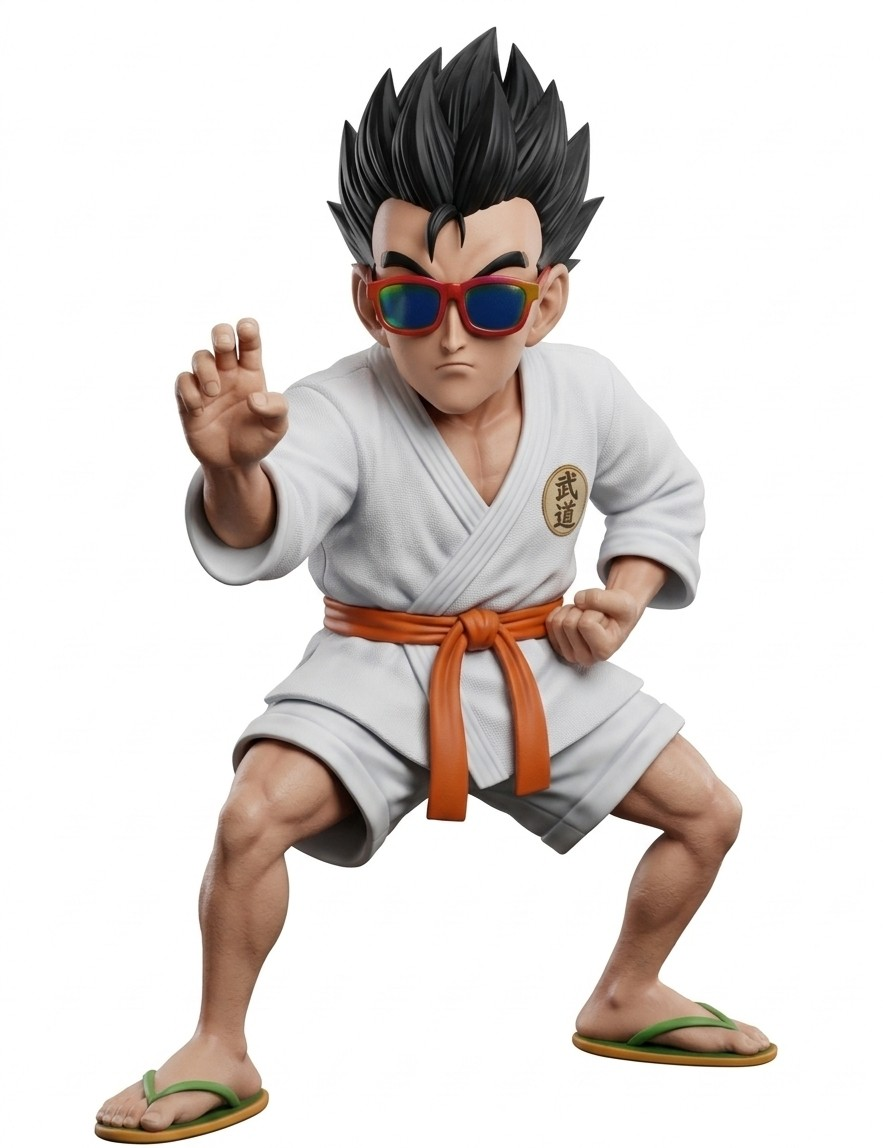
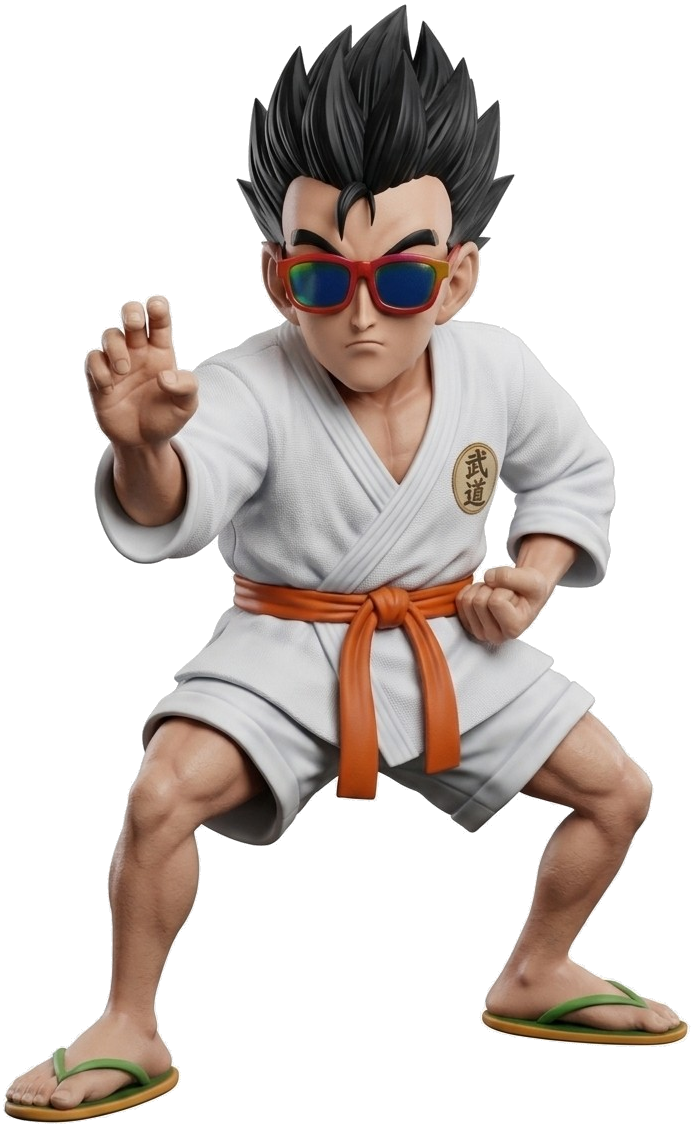
Jeder Kampf bringt das nächste Spiel, Muten Roshi Stufe 2 freigestellt
- Spielauswahl über eigenen Zähler (localStorage "zkrieger_spiel_nr"):
  jeder Kampf ab Welt-Level 2 startet das nächste Spiel der Reihe,
  auch nach einer Niederlage; Spielstand "zwarriors_neon_v10" unverändert
- c5_s2.png: weißer Hintergrund entfernt (transparentes PNG, weißer Gi bleibt)

diff --git a/app.js b/app.js
@@ -4005,7 +4005,13 @@ loadSmartImage(document.getElementById("intro-hero-img"), "intro_bg", () => {
 
     // Ab Welt-Level 2: jede Runde ein anderes Minispiel (Runde 1 bleibt unten unverändert)
     if (lvl >= 2) {
-      const game = MINI_GAMES[(lvl - 2) % MINI_GAMES.length];
+      // Jeder Kampf = nächstes Spiel der Reihe (auch nach einer Niederlage).
+      // Eigener Speicher-Schlüssel, damit "zwarriors_neon_v10" unverändert bleibt.
+      const GAME_KEY = "zkrieger_spiel_nr";
+      const stored = parseInt(localStorage.getItem(GAME_KEY), 10);
+      const gameNr = Number.isFinite(stored) ? stored : lvl - 2;
+      localStorage.setItem(GAME_KEY, String(gameNr + 1));
+      const game = MINI_GAMES[((gameNr % MINI_GAMES.length) + MINI_GAMES.length) % MINI_GAMES.length];
       chargeBtn.style.display = "none";
       document.getElementById("gta-mode-label").textContent = game.name;
       battleModal.classList.remove("hidden");
